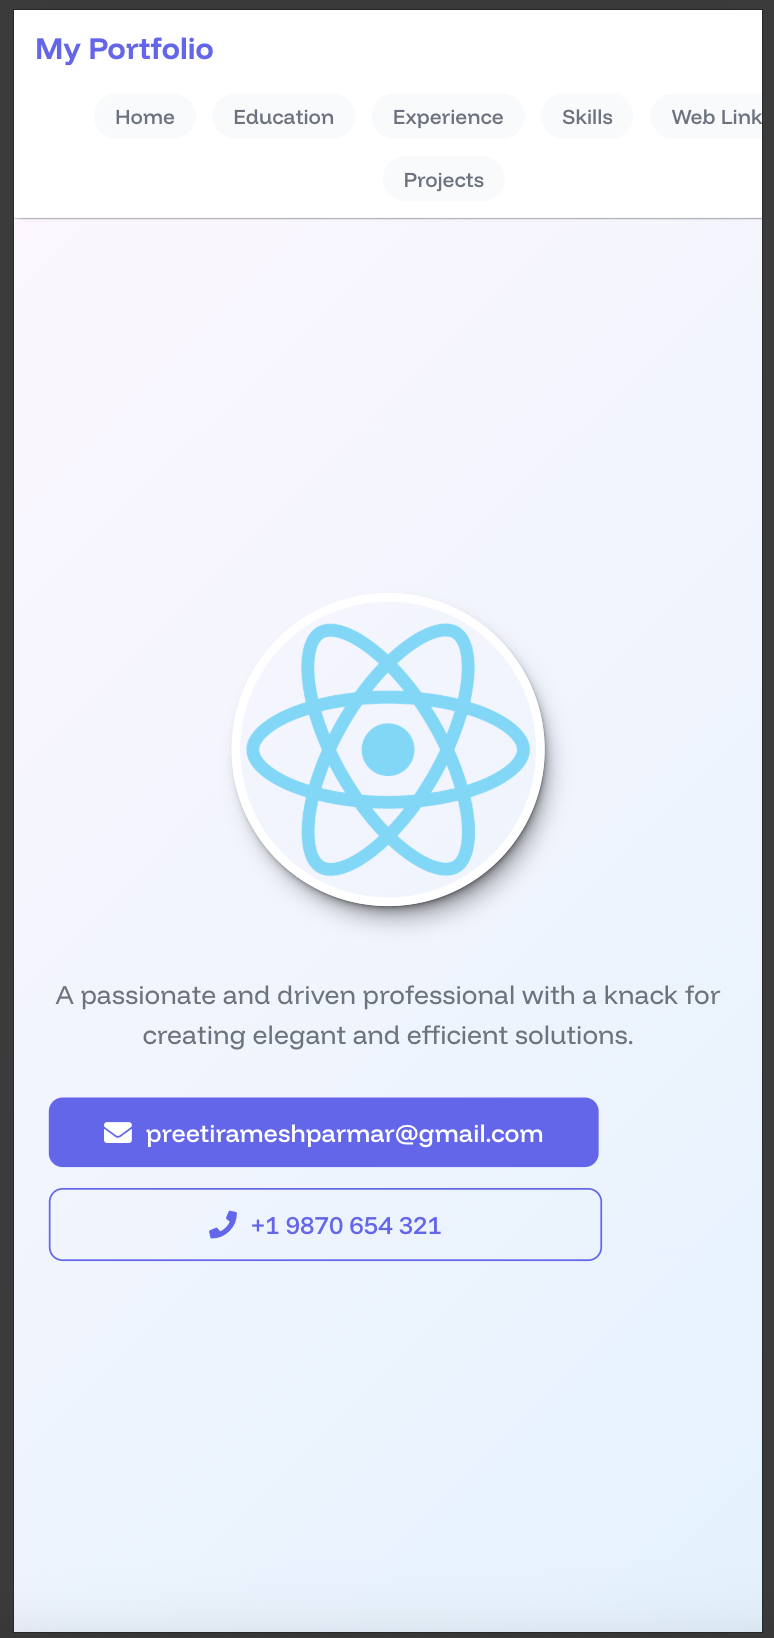
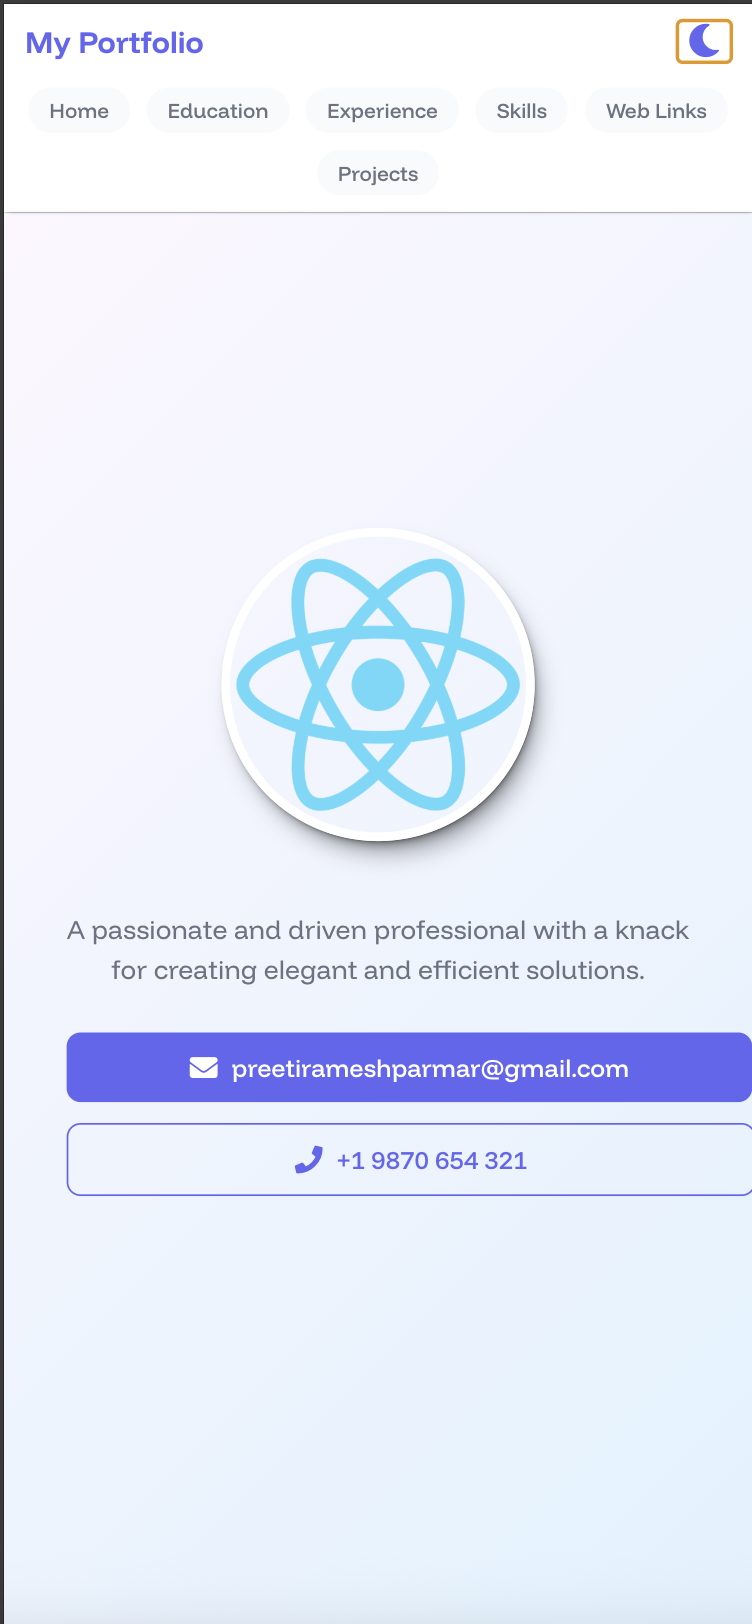
Fix critical mobile alignment and overflow issues
Personal Section:
- Contact buttons now match description text width exactly
- Added proper box-sizing and width calculations
- Buttons align perfectly with text content above

WorkExperience Section:
- Fixed timeline cards overflowing to the right
- Added max-width constraints using calc(100vw - padding)
- Proper overflow-wrap and word-break for long text
- Timeline items now respect screen boundaries

Global:
- Added overflow-x: hidden to body to prevent horizontal scroll
- Ensured all elements respect viewport width constraints

Changed region(s): [[0.0, 0.0, 1.0, 1.0]]

diff --git a/src/components/WorkExperience.css b/src/components/WorkExperience.css
@@ -103,20 +103,24 @@
 @media (max-width: 768px) {
   .experience-container {
     padding: 1.5rem 1rem;
+    max-width: 100vw;
+    overflow-x: hidden;
   }
   .timeline {
     padding: 1rem 0;
     max-width: 100%;
     overflow-x: hidden;
+    margin: 0;
   }
   .timeline::before {
     left: 16px;
   }
   .timeline-item {
-    width: 100%;
+    width: calc(100% - 2.5rem);
     padding-left: 2.5rem;
-    padding-right: 0.5rem;
+    padding-right: 0;
     text-align: left;
+    margin: 0;
   }
   .timeline-item:nth-child(odd),
   .timeline-item:nth-child(even) {
@@ -130,23 +134,31 @@
     padding: 1.25rem;
     margin-right: 0;
     width: 100%;
+    max-width: calc(100vw - 4rem);
     box-sizing: border-box;
+    overflow-wrap: break-word;
   }
   .company-name {
     font-size: 1.3rem;
+    overflow-wrap: break-word;
   }
 }
 
 @media (max-width: 480px) {
   .experience-container {
     padding: 1.25rem 0.75rem;
+    max-width: 100vw;
+    overflow-x: hidden;
   }
   .timeline {
     padding: 0.75rem 0;
+    margin: 0;
   }
   .timeline-item {
+    width: calc(100% - 2rem);
     padding-left: 2rem;
-    padding-right: 0.25rem;
+    padding-right: 0;
+    margin: 0;
   }
   .timeline::before {
     left: 12px;
@@ -158,16 +170,22 @@
   .timeline-content {
     padding: 1rem;
     width: 100%;
+    max-width: calc(100vw - 3.5rem);
+    box-sizing: border-box;
+    overflow-wrap: break-word;
   }
   .company-name {
     font-size: 1.2rem;
-    word-wrap: break-word;
+    overflow-wrap: break-word;
+    word-break: break-word;
   }
   .job-duration {
     font-size: 0.85rem;
+    overflow-wrap: break-word;
   }
   .job-description {
     font-size: 0.9rem;
-    word-wrap: break-word;
+    overflow-wrap: break-word;
+    word-break: break-word;
   }
 }

diff --git a/src/components/Personal.css b/src/components/Personal.css
@@ -126,12 +126,15 @@
     padding: 0 2rem;
     max-width: 500px;
     margin: 0 auto;
+    width: 100%;
+    box-sizing: border-box;
   }
   .contact-button {
-    width: 100%;
+    width: calc(100% - 0px);
     max-width: none;
     justify-content: center;
     padding: 12px 20px;
+    box-sizing: border-box;
   }
 }
 
@@ -153,15 +156,21 @@
     line-height: 1.5;
     padding: 0 1.5rem;
     max-width: 400px;
+    margin-left: auto;
+    margin-right: auto;
   }
   .personal-contact {
     padding: 0 1.5rem;
     max-width: 400px;
+    margin: 0 auto;
+    width: 100%;
+    box-sizing: border-box;
   }
   .contact-button {
     padding: 11px 18px;
     font-size: 0.9rem;
     width: 100%;
     max-width: none;
+    box-sizing: border-box;
   }
 }

diff --git a/src/index.css b/src/index.css
@@ -53,6 +53,8 @@ body {
   background-color: var(--background);
   color: var(--text-dark);
   transition: background-color 300ms ease, color 300ms ease;
+  overflow-x: hidden;
+  max-width: 100vw;
 }
 
 code {
